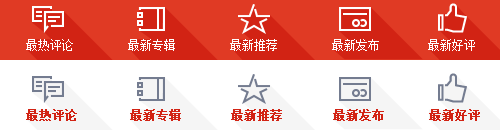
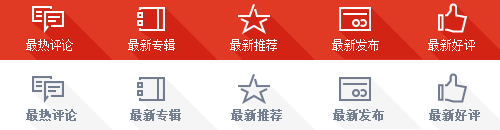
学习园地首页修改完成

diff --git a/css/index_xxyd.css b/css/index_xxyd.css
@@ -12,7 +12,7 @@
 
 
 /* 第一屏 */
-.c-m-c-first{padding:30px 0;}
+.c-m-c-first{padding-bottom:30px;}
 .c-m-c-first-left{float:left; width:500px;}
 .c-m-c-first-right{float:left; margin-left:65px; width:375px;}
 
@@ -29,13 +29,14 @@
 .c-m-c-first-left-nav .a4:hover, .c-m-c-first-left-nav .current.a4{background-position:-300px -70px;}
 .c-m-c-first-left-nav .a5:hover, .c-m-c-first-left-nav .current.a5{background-position:-400px -70px;}
 .c-m-c-first-left-main{display:none; width:496px; border:solid 2px #f3f1f1; border-top:none; overflow:hidden;}
-.current.c-m-c-first-left-main{display:block;}
+.current.c-m-c-first-left-main{display:block; height:325px;}
 .c-m-c-first-left-main-content{float:left; margin-left:20px; width:225px;}
 .c-m-c-first-left-main-content-titleList{padding-top:10px;}
 .c-m-c-first-left-main-content-titleList li{padding:5px;}
 .c-m-c-first-left-main-content-titleList li:hover{background-color:#ffeea1;}
 .c-m-c-first-left-main-content-titleList span{display:inline-block; *display:inline; vertical-align:top; *zoom:1; margin-right:10px; width:18px; height:18px; line-height:18px; text-align:center; color:#fff; background-color:#27b779;}
 .c-m-c-first-left-main-content-titleList a{display:inline-block; *display:inline; vertical-align:top; *zoom:1; height:18px; line-height:18px; color:#666;}
+.c-m-c-first-left-main-content-titleList li:hover a{color:#f3931b;}
 .c-m-c-first-left-main-content-titleList .first{background-color:#e7191b;}
 .c-m-c-first-left-main-content-titleList .second{background-color:#ff7800;}
 .c-m-c-first-left-main-content-titleList .third{background-color:#ffba00;}
@@ -49,7 +50,7 @@
 .c-m-c-first-right-navList .icon{display:inline-block; *display:inline; vertical-align:top; *zoom:1; margin:5px 0 0 30px; width:19px; height:19px; background:url(../images/xxyd/first_right_icon.png) no-repeat 0 0;}
 .c-m-c-first-right-navList .text{display:inline-block; *display:inline; vertical-align:top; *zoom:1; margin-left:25px; color:#666; text-decoration:none;}
 .c-m-c-first-right-navList a.current .icon{background-position:0 -25px;}
-.c-m-c-first-right-navList a.current .text{color:#f3931b;}
+.c-m-c-first-right-navList a.current .text, .c-m-c-first-right-navList a:hover .text{color:#f3931b;}
 
 
 
